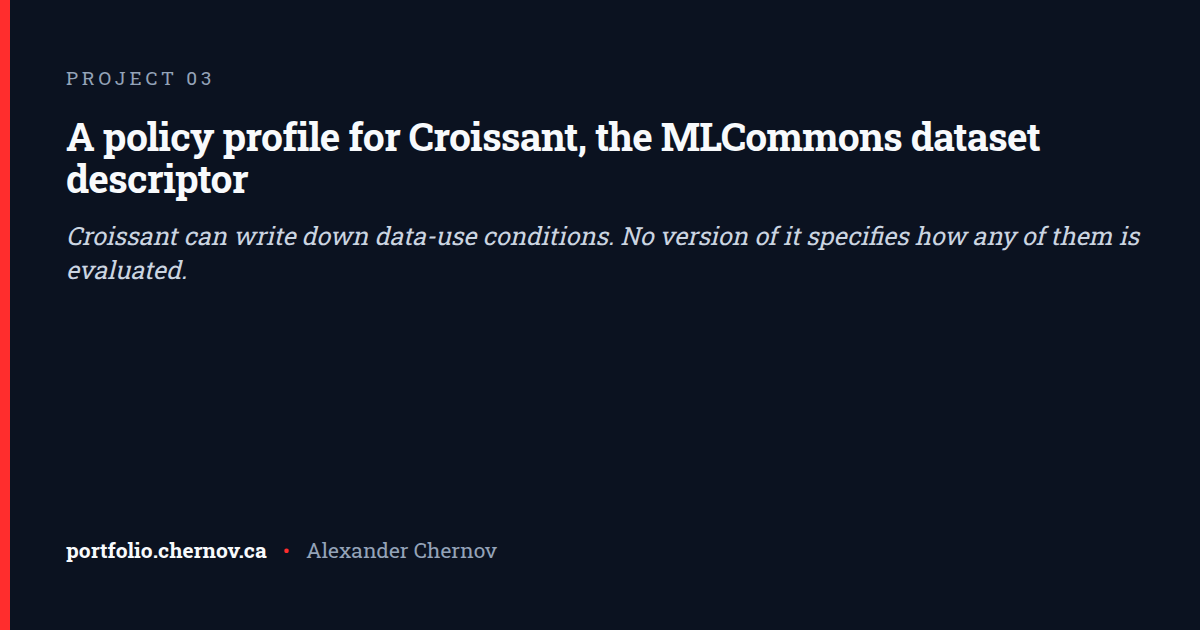
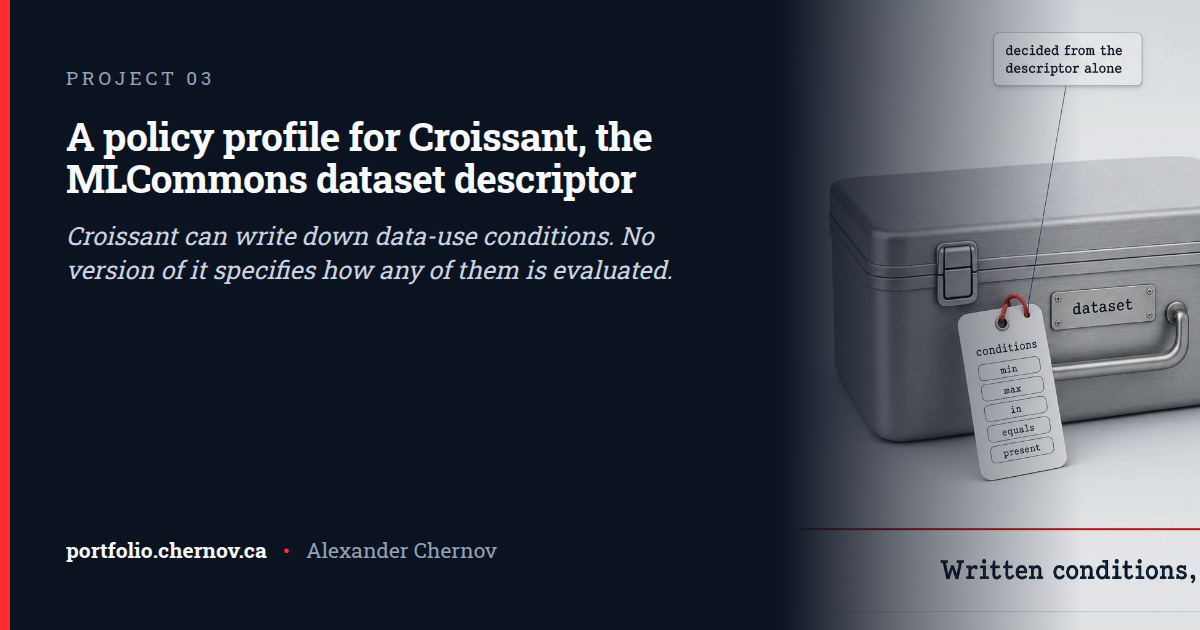
Croissant policy profile: an illustration in the house style
A data case whose descriptor tag lists the five operators, a policy gate
with its arm down, and the decision record it prints. Generated with the
shared style block now kept in image-prompts/; every word and number in the
render was checked against the prompt and the spec before use.

diff --git a/docs/p/croissant-policy-profile.html b/docs/p/croissant-policy-profile.html
@@ -205,6 +205,9 @@ footer.bottom p{margin:0 0 .5rem}
 </div>
 <p class="lede">Croissant can write down data-use conditions. No version of it specifies how any of them is evaluated.</p>
 <p class="summary">What the descriptor leaves open, this closes: five operators, one verdict per request, and an audit trail behind it. Authority and conditions turn out to disagree in both directions, neither permit set containing the other, and the price of deciding is published rather than estimated at +0.0 &micro;s warm, +11.7 &micro;s cold.</p>
+<figure><img src="../img/project-croissant-policy-profile.webp" alt="A dataset whose descriptor carries its conditions in the profile&amp;rsquo;s five operators, a gate that decides a request from them alone, and the record it prints either way &amp;mdash; here a refusal. Illustration; the overhead figures are the measured ones." loading="lazy" decoding="async">
+<figcaption>A dataset whose descriptor carries its conditions in the profile&rsquo;s five operators, a gate that decides a request from them alone, and the record it prints either way &mdash; here a refusal. Illustration; the overhead figures are the measured ones.</figcaption>
+</figure>
 <p>No decision procedure, no bound on what a condition costs to check, no defined outcome for a condition an implementation cannot evaluate, and no record of what was checked.</p>
 <p>This profile closes that: a dataset declares the operations it admits and the conditions under which it admits them, from a closed set of five operators, so a gate can decide from the descriptor alone and leave a decision record. Two carriers that decide identically are compared as whole decision records.</p>
 <p>The measured result is the interesting one. Caller-side authority and data-side conditions disagree in both directions — each refuses requests the other admits, and neither permit set contains the other. Overhead disclosed rather than assumed: +0.0 µs warm, +11.7 µs cold per decision. All emitted documents load under <code>mlcroissant</code> 1.1.0 with zero errors.</p>

diff --git a/docs/index.html b/docs/index.html
@@ -248,6 +248,9 @@ footer.bottom p{margin:0 0 .5rem}
 </div>
 <p class="lede">Croissant can write down data-use conditions. No version of it specifies how any of them is evaluated.</p>
 <p class="summary">What the descriptor leaves open, this closes: five operators, one verdict per request, and an audit trail behind it. Authority and conditions turn out to disagree in both directions, neither permit set containing the other, and the price of deciding is published rather than estimated at +0.0 &micro;s warm, +11.7 &micro;s cold.</p>
+<figure><img src="img/project-croissant-policy-profile.webp" alt="A dataset whose descriptor carries its conditions in the profile&amp;rsquo;s five operators, a gate that decides a request from them alone, and the record it prints either way &amp;mdash; here a refusal. Illustration; the overhead figures are the measured ones." loading="lazy" decoding="async">
+<figcaption>A dataset whose descriptor carries its conditions in the profile&rsquo;s five operators, a gate that decides a request from them alone, and the record it prints either way &mdash; here a refusal. Illustration; the overhead figures are the measured ones.</figcaption>
+</figure>
 <p>No decision procedure, no bound on what a condition costs to check, no defined outcome for a condition an implementation cannot evaluate, and no record of what was checked.</p>
 <p>This profile closes that: a dataset declares the operations it admits and the conditions under which it admits them, from a closed set of five operators, so a gate can decide from the descriptor alone and leave a decision record. Two carriers that decide identically are compared as whole decision records.</p>
 <p>The measured result is the interesting one. Caller-side authority and data-side conditions disagree in both directions — each refuses requests the other admits, and neither permit set contains the other. Overhead disclosed rather than assumed: +0.0 µs warm, +11.7 µs cold per decision. All emitted documents load under <code>mlcroissant</code> 1.1.0 with zero errors.</p>

diff --git a/image-prompts/common.py b/image-prompts/common.py
@@ -1,0 +1,31 @@
+"""Shared call and style for the portfolio's project illustrations.
+
+Same form as the LinkedIn article images -- a rendered hero object, thin leader-line
+annotation, one statement band, an explicit list of what not to draw -- recoloured
+to the portfolio: slate background, white panels, slate-navy ink, Roboto-Slab-like
+slab-serif headings, and ONE accent red (#dc2626) used sparingly, with a quiet
+royal blue (#1d4ed8) for neutral chips.
+"""
+import base64, pathlib, sys
+from openai import OpenAI
+
+STYLE = """
+PALETTE AND TYPE (match an existing web page exactly): background a very pale cool slate (#f1f5f9) fading to white at the centre; panels and cards pure white with a hairline slate border (#e2e8f0) and soft shadow; all text in deep slate-navy (#0f172a) or muted slate (#475569); headings and numbers in a sturdy slab-serif typeface similar to Roboto Slab, labels in the same slab serif at small size. ONE accent colour only: a clean signal red (#dc2626), used sparingly for the single most important element and thin accent rules. A quiet royal blue (#1d4ed8) may appear only as thin outlines on neutral chips. No teal, no cyan, no glow, no gradients beyond the pale background.
+
+RENDERING: the hero objects in soft-3D product-visualisation style - realistic matte materials, soft contact shadows, gentle rim light, sitting on a pale surface. Schematic content floats over them as thin slate leader lines and small labels, never as a flowchart of boxes and arrows. Generous margins; nothing important near the edges; balanced 3:2 composition.
+
+TEXT: minimal, short labels only, spelled exactly as given, every number rendered exactly as given. No paragraphs.
+
+DO NOT DRAW: vendor logos or brand marks of any kind (no AWS smile, no cloud-provider icons), no Kubernetes wheel, no human figures or hands, no robots with faces, no neon, no dark background, no watermark, no website, no signature, no bar-chart clip-art, no extra numbers beyond those given.
+"""
+
+def generate(prompt: str, out_name: str) -> None:
+    key = pathlib.Path.home().joinpath(".openai_key").read_text().strip()
+    client = OpenAI(api_key=key)
+    model = sys.argv[1] if len(sys.argv) > 1 else "gpt-image-2"
+    out = pathlib.Path(__file__).resolve().parent.parent / "image-src" / out_name
+    print(f"calling {model} for {out_name} ...", flush=True)
+    resp = client.images.generate(model=model, prompt=prompt + STYLE, size="1536x1024", quality="high")
+    out.parent.mkdir(parents=True, exist_ok=True)
+    out.write_bytes(base64.b64decode(resp.data[0].b64_json))
+    print("saved:", out, out.stat().st_size, "bytes")

diff --git a/image-prompts/gen_croissant.py b/image-prompts/gen_croissant.py
@@ -1,0 +1,22 @@
+from common import generate
+
+PROMPT = """Create a 3:2 landscape illustration for a portfolio section about a policy profile for Croissant, the dataset descriptor. The point of the picture: a dataset carries its own written conditions, a gate decides every request from those conditions alone, and every decision - permit or refuse - leaves a printed record.
+
+HERO (centre-left, rendered object): a closed archival data case in matte brushed aluminium with rounded corners and two latches, sitting on a pale surface. A small engraved plate on its front reads "dataset". Tied to its handle with a thin red cord hangs a stiff white card tag, the descriptor. On the tag, printed in small slab-serif type, a heading "conditions" and below it exactly five short rounded chips in a column, each one word: "min", "max", "in", "equals", "present". Nothing else is written on the tag.
+
+SECOND OBJECT (centre-right): one waist-high matte brushed-steel turnstile beside the case, with a small engraved plate "policy gate". Its arm is DOWN and carries a thin red accent stripe. In front of it sits one small plain white rounded disc, a request token, with no text, stopped by the arm.
+
+THIRD OBJECT (right, in front of the turnstile): a short strip of white thermal-paper receipt curling out of a slot in the turnstile's side, the decision record. Printed on it in small monospace-like slab type, exactly these four lines and nothing more:
+"verdict: REFUSE"
+"class: CONDITION_VIOLATED"
+"descriptor version"
+"every condition checked"
+The word REFUSE is the only red text on the receipt.
+
+FLOATING ANNOTATION (thin and light): one thin slate leader line from the tag to a small white chip above it that reads "decided from the descriptor alone". One small white chip at the upper right with two lines: "+0.0 microseconds warm" and "+11.7 microseconds cold, per decision".
+
+LOWER BAND (full width, white panel with hairline border and a thin red rule along its top edge): one line of slab-serif text: "Written conditions, decided and recorded either way."
+
+Do not draw a croissant or any pastry or food, any bread, any human, any hand, any padlock, any arrow chain between boxes, any second turnstile, any extra chips or numbers beyond those given."""
+
+generate(PROMPT, "croissant-policy-profile.png")
